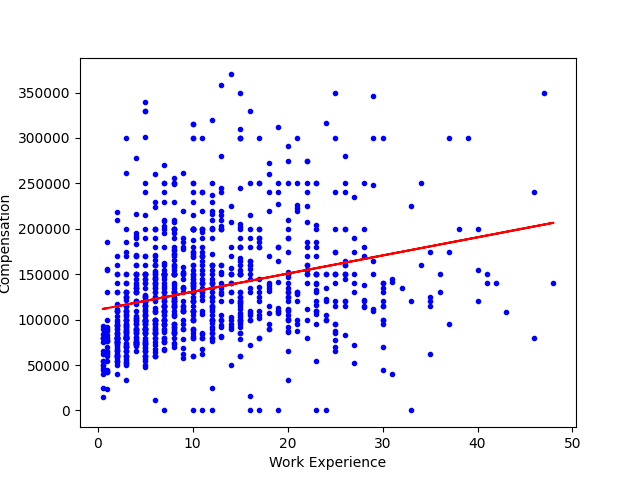
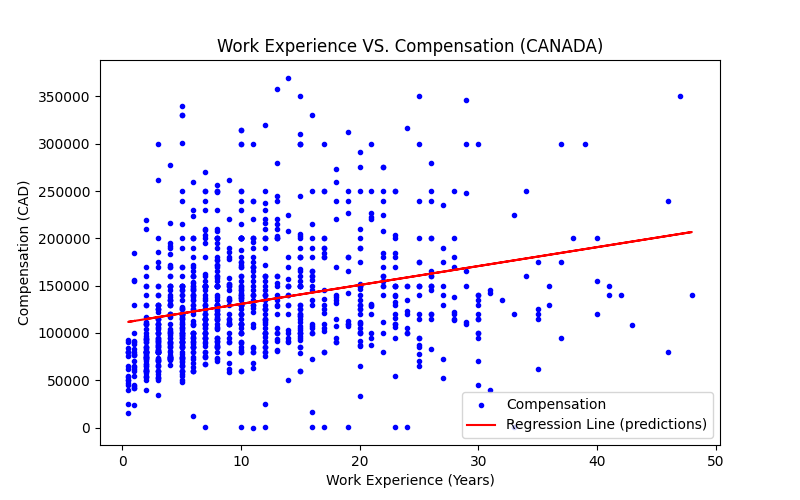
Graph legends

diff --git a/code/02-analysis_NA.py b/code/02-analysis_NA.py
@@ -14,29 +14,44 @@ def load_data(filename: str) -> pd.DataFrame:
         with data_zip.open(f"{filename}.csv") as developer_data:
             return pd.read_csv(developer_data)
         
-def plotLinearRegression(x_data, y_data, x_label: str, y_label: str, graph_name: str): 
+def plotLinearRegression(x_data, y_data, x_label: str, y_label: str, graph_name: str, title: str): 
     reg = st.linregress(x_data, y_data)
     prediction = reg.slope * x_data + reg.intercept
     print(reg)
-    plt.scatter(x_data, y_data, marker='.', color='blue')
-    plt.plot(x_data, prediction, 'r-')
+    residuals = y_data - prediction
+    plt.figure(figsize=(8, 5))
+    plt.title(title)
+    plt.scatter(x_data, y_data, marker='.', color='blue', label='Compensation')
+    plt.plot(x_data, prediction, 'r-', label='Regression Line (predictions)')
+    plt.legend()
     plt.xlabel(x_label)
     plt.ylabel(y_label)
     
     plt.savefig(f"{cs.DIAGRAM_OUTPUT_FOLDER}/{graph_name}.png")
     plt.close()
 
+    # Plot residuals
+    plt.hist(residuals, bins=30, density=True, color='blue', alpha=0.7, label='y_true - prediction')
+    plt.legend()
+    plt.xlabel(cs.COMPENSATION_LABEL)
+    plt.ylabel('Residuals')
+    plt.title(f'Residual Histogram')
+    plt.savefig(f"{cs.DIAGRAM_OUTPUT_FOLDER}/{graph_name}_residuals.png")
+    plt.close()
+    print(f"normality test on residuals{st.normaltest(residuals)}")
+
 def plotHistogram(data, x_label: str, y_label, title: str, graph_name: str):
-    plt.hist(data, bins=12)
+    plt.hist(data, bins=12, label='Compensation Frequency')
     plt.xlabel(x_label)
     plt.ylabel(y_label)
+    plt.legend()
     plt.title(title)
     plt.savefig(f"{cs.DIAGRAM_OUTPUT_FOLDER}/{graph_name}.png")
     plt.close()
 
 def plotAnovaAverageSalary(dataset, graph_name: str, feature_compared: str): 
     plt.figure(figsize=(12, 5))
-    tukey_result = pairwise_tukeyhsd(dataset[cs.COMPENSATION], dataset[feature_compared])
+    tukey_result = pairwise_tukeyhsd(dataset[cs.COMPENSATION] ** 0.5, dataset[feature_compared])
     plt.tight_layout()
     plt.xlabel(cs.COMPENSATION_AVERAGE_LABEL)
     tukey_result.plot_simultaneous()
@@ -64,20 +79,33 @@ def anovaTestIterator(value_list: list, usa_data, canada_data, X_data: str, Y_da
         american_jobs = usa_data[usa_data[X_data] == value].copy()
         canadian_jobs = canada_data[canada_data[X_data] == value].copy()
         
-        american_compensations.append(american_jobs[Y_data])
-        canadian_compensations.append(canadian_jobs[Y_data])
+        american_compensations.append(american_jobs[Y_data] ** 0.5)
+        canadian_compensations.append(canadian_jobs[Y_data] ** 0.5)
+    
+    # Showing one example of Levene's test for the first two groups
+    print(f"Levene Test America {st.levene(american_compensations[0], american_compensations[1])}")
+    print(f"Levene Test Canada {st.levene(canadian_compensations[0], canadian_compensations[1])}")
+
+    plotHistogram(american_compensations[1], f"{Y_data} ({value_list[1]})", X_data, f"{X_data}_VS._{Y_data}", f"{X_data}_VS._{Y_data}")
 
     american_anova = st.f_oneway(*american_compensations)
     canadian_anova = st.f_oneway(*canadian_compensations)
     print(f"ANOVA of job compensations for {X_data}: \nUSA: {american_anova}\nCanada: {canadian_anova}")
+    # usa_data = usa_data.dropna(subset=[X_data, cs.COMPENSATION])
+    # tukey_result = pairwise_tukeyhsd(usa_data[cs.COMPENSATION] ** 0.5, usa_data[X_data])
+    # print(tukey_result)
 
 
 def main():
     na_data = load_data(cs.NORTH_AMERICA_DATA)
     # rof_data = load_data(cs.NORTH_AMERICA_DATA)
+    print(na_data[(na_data[cs.COUNTRY] == cs.CANADA)].shape)
+    print(na_data[(na_data[cs.COUNTRY] == cs.USA)].shape)
 
-    plt.scatter(na_data[cs.YEARS_CODE_PRO], na_data[cs.COMPENSATION], marker='.', color='blue')
-    plt.xlabel(cs.YEARS_CODE_PRO)
+    plt.scatter(na_data[cs.YEARS_CODE_PRO], na_data[cs.COMPENSATION], marker='.', color='blue', label='Compensation')
+    plt.title('Work Experience vs Compensation')
+    plt.legend()
+    plt.xlabel(cs.WORK_EXPERIENCE_LABEL)
     plt.ylabel(cs.COMPENSATION_LABEL)
     plt.savefig(f"{cs.DIAGRAM_OUTPUT_FOLDER}/{cs.EXP_VS_COMP_OUTLIER}.png")
     plt.close()
@@ -92,13 +120,13 @@ def main():
     # in the North American job market?
     # 
     # Tests used: Linear Regression. Should do it for canada and us too    
-    plotLinearRegression(regression_data[cs.YEARS_CODE_PRO], regression_data[cs.COMPENSATION], cs.WORK_EXPERIENCE_LABEL, cs.COMPENSATION_LABEL, cs.EXP_VS_COMP)
+    plotLinearRegression(regression_data[cs.YEARS_CODE_PRO], regression_data[cs.COMPENSATION], cs.WORK_EXPERIENCE_LABEL, cs.COMPENSATION_LABEL, cs.EXP_VS_COMP, cs.REGRESSION_ALL_DATA)
 
     # Question 2: Are US employees paid more than Canadian employees
     canada_data = regression_data[(regression_data[cs.COUNTRY] == cs.CANADA)]
     usa_data = regression_data[(regression_data[cs.COUNTRY] == cs.USA)]
-    plotLinearRegression(canada_data[cs.YEARS_CODE_PRO], canada_data[cs.COMPENSATION], cs.WORK_EXPERIENCE_LABEL, cs.COMPENSATION_LABEL, cs.EXP_VS_COMP_CAN)
-    plotLinearRegression(usa_data[cs.YEARS_CODE_PRO], usa_data[cs.COMPENSATION], cs.WORK_EXPERIENCE_LABEL, cs.COMPENSATION_LABEL, cs.EXP_VS_COMP_USA)
+    plotLinearRegression(canada_data[cs.YEARS_CODE_PRO], canada_data[cs.COMPENSATION], cs.WORK_EXPERIENCE_LABEL, cs.COMPENSATION_LABEL, cs.EXP_VS_COMP_CAN, cs.REGRESSION_CANADA_DATA)
+    plotLinearRegression(usa_data[cs.YEARS_CODE_PRO], usa_data[cs.COMPENSATION], cs.WORK_EXPERIENCE_LABEL, cs.COMPENSATION_LABEL, cs.EXP_VS_COMP_USA, cs.REGRESSION_USA_DATA)
 
 
     print(f"size of canada data: {len(canada_data)}")
@@ -183,10 +211,9 @@ def main():
     #Anova test b/w Education vs Compensation: 
     educ_comp_data = na_data.dropna(subset=[cs.EDUCATION, cs.COMPENSATION])
     education = educ_comp_data[cs.EDUCATION].unique()
-    print(len(education))
+    # print(len(education))
     
     anovaTestIterator(education, usa_data, canada_data, cs.EDUCATION, cs.COMPENSATION)
-   
     plotAnovaAverageSalary(usa_data, cs.USA_TUKEY_COMP_EDU, cs.EDUCATION)
     plotAnovaAverageSalary(canada_data, cs.CAN_TUKEY_COMP_EDU, cs.EDUCATION)
     

diff --git a/code/constants.py b/code/constants.py
@@ -106,15 +106,20 @@ ALL_FRAMEWORK = ['JavaScript', 'SQL', 'HTML/CSS', 'Python', 'TypeScript',
        'React Native', 'Scikit-Learn', 'Torch/PyTorch']
 
 # Plot labels
-COMPENSATION_LABEL: str = 'Compensation'
+COMPENSATION_LABEL: str = 'Compensation (CAD)'
 COMPENSATION_TRANSFORMED_LABEL: str = 'Compensation Transformed'
 COMPENSATION_AVERAGE_LABEL: str = 'Average Compensation'
-WORK_EXPERIENCE_LABEL: str = 'Work Experience'
+WORK_EXPERIENCE_LABEL: str = 'Work Experience (Years)'
 YEARS_OF_CODE_LABEL:str = "Years of Coding"
 AI_SENT_LABEL: str = "AI Sentiment"
 JOB_TITLE_LABEL: str = 'Job title'
 UNFAVOURABLE_LABEL: str = 'Unfavourable'
 FREQUENCY_LABEL: str = 'Frequency'
+
+# Titles
+REGRESSION_ALL_DATA: str = 'Work Experience VS. Compensation (North America)'
+REGRESSION_USA_DATA: str = 'Work Experience VS. Compensation (USA)'
+REGRESSION_CANADA_DATA: str = 'Work Experience VS. Compensation (CANADA)'
 
 # Output filenames
 EXP_VS_COMP_OUTLIER: str = 'yoe_vs_income_outliers'

diff --git a/code/01clean_data.py b/code/01clean_data.py
@@ -21,7 +21,7 @@ def filterData(stackoverflow_data: pd.DataFrame, northAmerica: bool) -> pd.DataF
     return result[(
         (result[cs.MAIN_BRANCH] == cs.DEVELOPERS) & 
         (result[cs.EMPLOYMENT_TYPE].str.contains(cs.EMPLOYED_PART_TIME) | result[cs.EMPLOYMENT_TYPE].str.contains(cs.EMPLOYED_FULL_TIME)) 
-        )].drop(cs.MAIN_BRANCH, axis=1).dropna(subset = [cs.COMPENSATION, cs.COMPENSATION], how="all").reset_index()
+        )].drop(cs.MAIN_BRANCH, axis=1).dropna(subset = [cs.COMPENSATION], how="all").reset_index()
 
         
 def convertCurrencyToCanadian(currency: str, value: float) -> float:
